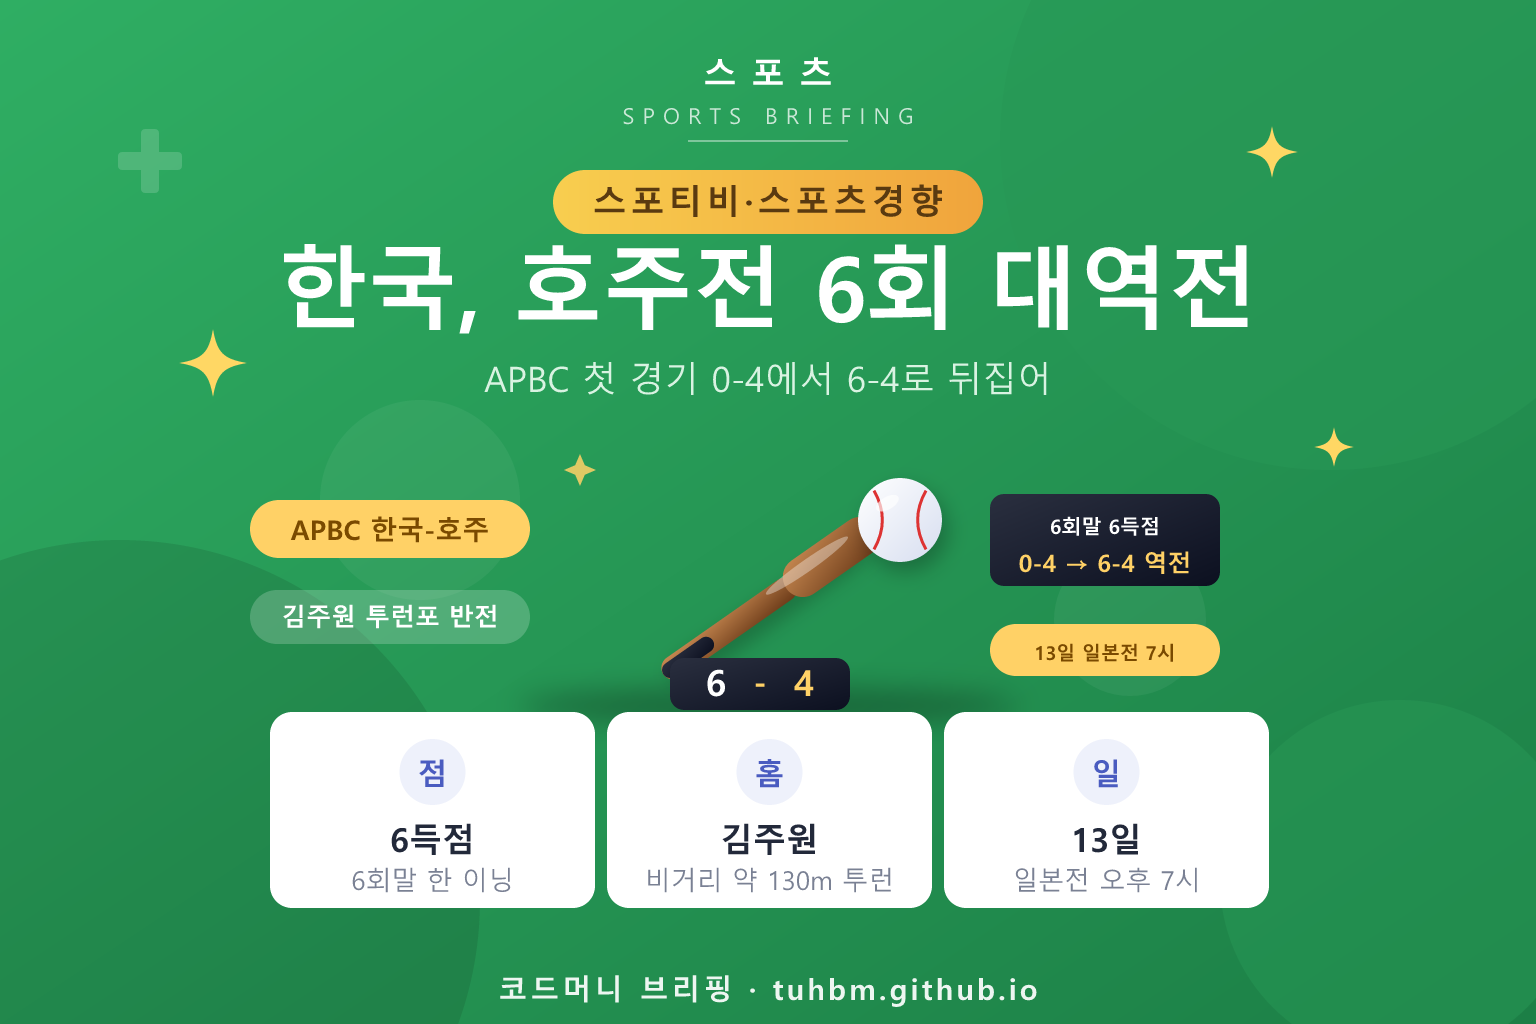
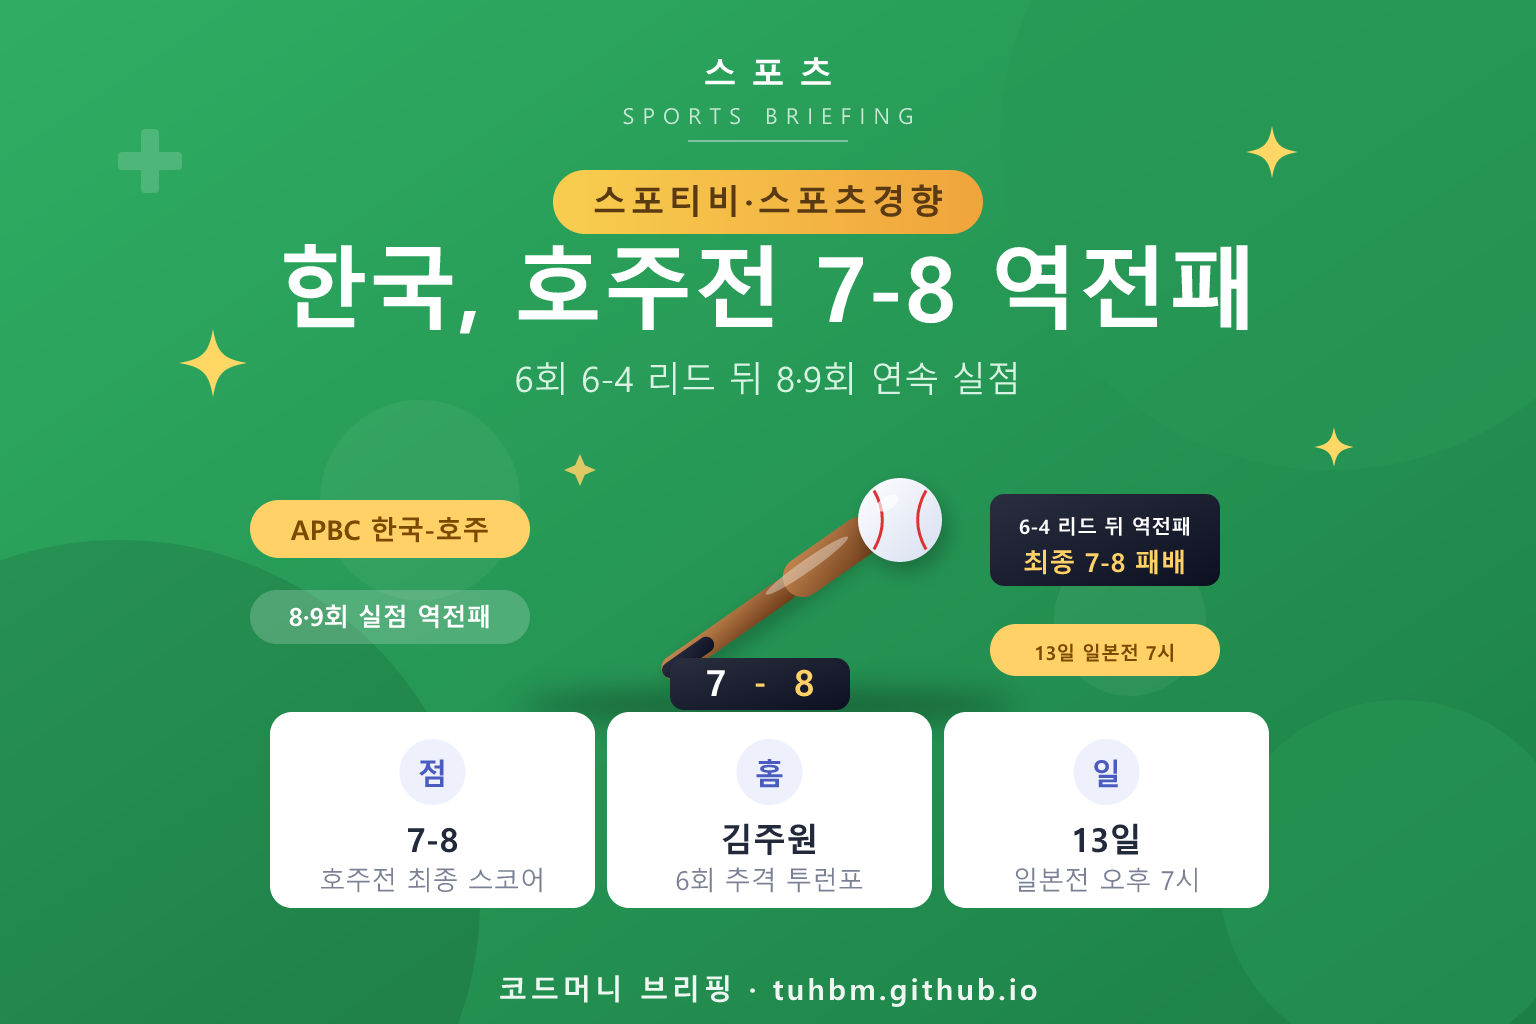
APBC 호주전 글 정정: 최종 7-8 역전패 반영(제목·본문·이미지)

diff --git a/source/_posts/apbcKoreaAustraliaComeback.md b/source/_posts/apbcKoreaAustraliaComeback.md
@@ -1,8 +1,8 @@
 ---
 
-title: APBC 한국 호주전 6회말 6득점 대역전 — 0-4에서 김주원 투런·김휘집 싹쓸이, 13일 일본전 일정
+title: APBC 한국 호주전 7-8 역전패 — 6회말 6득점으로 뒤집고도 8·9회 실점, 13일 일본전 일정
 date: 2026-11-12 08:47:00
-description: 야구대표팀이 12일 도쿄돔에서 열린 2026 APBC 첫 경기에서 호주에 0-4로 끌려가다 6회말 6득점으로 6-4 역전했습니다. 김주원 투런 홈런, 김휘집 3타점 2루타, 신인 김민준 선발 부진, 13일 일본전 일정을 스포티비·스포츠경향 보도로 정리했습니다.
+description: 야구대표팀이 12일 도쿄돔 APBC 첫 경기에서 호주에 7-8로 졌습니다. 0-4로 뒤지다 6회말 6득점으로 6-4까지 뒤집었지만 8회와 9회 실점했습니다. 김주원 투런, 김휘집 3타점 2루타, 13일 일본전 일정을 뉴스1·MHN·스포티비 보도로 정리했습니다.
 categories:
 - 브리핑
 - 스포츠
@@ -21,10 +21,11 @@ keywords:
 ![APBC 한국 호주전 역전을 나타낸 이미지](https://tuhbm.github.io/images/normal/apbcKoreaAustraliaComeback.png)
 ## 한눈에 요약
 
-* **무슨 일?** 최원호 감독의 한국 야구대표팀이 12일 일본 도쿄돔에서 열린 2026 아시아프로야구챔피언십(APBC) 첫 경기 호주전에서 0-4로 끌려가다 6회말 6점을 뽑아 6-4로 앞섰습니다.
+* **정정 안내(13일)**: 이 글의 초판은 6회말 6-4 리드까지만 전했으나, 경기 최종 결과는 한국의 7-8 역전패였습니다. 아래 내용을 최종 결과에 맞춰 고쳤습니다.
+* **무슨 일?** 최원호 감독의 한국 야구대표팀이 12일 일본 도쿄돔에서 열린 2026 아시아프로야구챔피언십(APBC) 첫 경기 호주전에서 0-4로 끌려가다 6회말 6점을 뽑아 6-4로 앞섰지만, 8회초와 9회초에 실점해 7-8로 졌습니다.
 * **왜 주목?** 5회까지 단 2안타에 묶이던 타선이 김주원의 투런 홈런을 시작으로 한 이닝에 터졌습니다. 반면 선발 신인 김민준은 2⅓이닝 4실점으로 물러났습니다.
 * **다음 일정**: 13일 일본전(오후 7시), 14일 대만전을 치른 뒤 15일 순위 결정전이 열립니다.
-* **확인 필요**: 이 글은 6회말까지 상황을 전한 보도를 바탕으로 합니다. 경기 최종 결과는 공식 기록을 확인하세요.
+* **남은 변수**: 한국은 결승 진출을 노리려면 일본전과 대만전을 모두 이겨 2승 1패를 해야 합니다.
 
 <!-- more -->
 
@@ -33,6 +34,10 @@ keywords:
 스포티비뉴스 보도에 따르면 한국은 김주원(유격수)-김도영(3루수)-안현민(지명타자)-한동희(1루수)-문현빈(우익수)-김휘집(2루수)-박재현(중견수)-조형우(포수)-김민석(좌익수)으로 타선을 짰고 선발투수는 김민준이었습니다. 김민준은 1회초 볼넷 2개를 내준 뒤 2사 1·2루에서 호주 5번 타자 블레이크 카빌에게 선제 3점 홈런을 맞았습니다. 2회를 잘 넘겼지만 3회 2루타와 볼넷으로 무사 1·2루에 몰렸고, 아웃카운트 하나를 잡은 뒤 마운드를 내려갔습니다. 구원 등판한 조동욱이 승계 주자 1명을 들여보내 김민준의 실점은 4점이 됐습니다. 최종 기록은 2⅓이닝 2피안타(1피홈런) 3볼넷 2탈삼진 4실점입니다.
 
 타선도 5회까지 2안타에 그쳤습니다. 분위기가 바뀐 것은 6회말입니다.
+
+## 8·9회 역전패 과정
+
+MHN 보도에 따르면 6-4로 앞선 한국은 8회초 박정민(롯데)이 클레이턴 캠벨에게 동점 2점 홈런을 맞았습니다. 앞서 나온 김휘집의 수비 실책이 빌미가 됐다고 합니다. 9회초에는 최준용(롯데)이 크리스 버크에게 역전 적시 2루타를 맞았고 맥스 더링턴에게 추가 적시타까지 허용해 6-8이 됐습니다. 한국은 9회말 1사 2·3루에서 김도영의 희생플라이로 한 점을 따라붙었지만, 안현민이 2루수 뜬공으로 물러나 7-8로 끝났습니다. 김도영은 이날 4타수 무안타 2삼진에 희생플라이 1타점이었습니다.
 
 ## 6회말 6득점 순서
 
@@ -55,13 +60,13 @@ keywords:
 
 ## 호주전이 방심할 수 없던 이유
 
-뉴스1은 2023년 대회에서 한국이 호주를 3-2로 이겼지만 연장 승부치기까지 간 진땀승이었다고 짚었습니다. 당시 한국은 8회초까지 호주 마운드를 공략하지 못하다 1-2로 끌려가던 8회말 김주원의 적시타로 동점을 만들었고, 연장 10회말 노시환의 끝내기 안타로 이겼습니다. 이번에도 초반 열세를 뒤집는 경기가 된 셈입니다. 또 이번 대표팀은 확실한 에이스가 없는 것이 약점으로 꼽히고, 김도영·안현민·한동희로 이어지는 중심 타선이 강점이라는 평가가 나왔습니다. 김도영은 우승을 바라보고 뛰겠다고, 주장 한동희는 무조건 다 이겨야 한다며 전승 우승을 목표로 하겠다고 밝혔습니다.
+뉴스1은 2023년 대회에서 한국이 호주를 3-2로 이겼지만 연장 승부치기까지 간 진땀승이었다고 짚었습니다. 당시 한국은 8회초까지 호주 마운드를 공략하지 못하다 1-2로 끌려가던 8회말 김주원의 적시타로 동점을 만들었고, 연장 10회말 노시환의 끝내기 안타로 이겼습니다. 이번에는 초반 열세를 뒤집고도 후반에 다시 역전을 허용했습니다. 또 이번 대표팀은 확실한 에이스가 없는 것이 약점으로 꼽히고, 김도영·안현민·한동희로 이어지는 중심 타선이 강점이라는 평가가 나왔습니다. 김도영은 우승을 바라보고 뛰겠다고, 주장 한동희는 무조건 다 이겨야 한다며 전승 우승을 목표로 하겠다고 밝혔습니다.
 
 ## 나에게 미치는 영향
 
-* **야구 팬**: 13일 오후 7시 일본전이 조별리그 고비입니다. 중계 채널은 편성표에서 확인하세요.
+* **야구 팬**: 13일 오후 7시 일본전이 조별리그 고비입니다. 호주전에서 패해 일본·대만전을 모두 이겨야 결승 진출 가능성이 커집니다.
 * **KBO 팬**: 시즌이 끝난 뒤에도 각 구단 젊은 선수들의 국제대회 경험을 볼 수 있는 기회입니다.
-* **일반 독자**: 최종 결과와 순위는 공식 기록으로 확인해야 하며, 이 글은 6회말까지의 보도를 요약한 것입니다.
+* **일반 독자**: 일본전 선발은 롯데 좌완 김진욱으로 예고됐고, 한국은 프로 선수가 나선 국제대회 한일전에서 11연패 중이라고 뉴스1은 전했습니다.
 
 ## 용어 풀이
 
@@ -73,7 +78,7 @@ keywords:
 ## 자주 묻는 질문
 
 **Q. 한국은 호주전을 이겼나요?**
-A. 인용한 보도는 6회말 6-4 리드까지만 전합니다. 최종 결과는 공식 기록을 확인하세요.
+A. 아닙니다. 6-4로 앞섰지만 8·9회에 실점해 7-8로 졌습니다.
 
 **Q. 다음 경기는 언제인가요?**
 A. 13일 일본전, 14일 대만전, 15일 순위 결정전 순입니다.
@@ -90,5 +95,7 @@ A. 올해 신인으로 이번에 처음 태극마크를 달았고, 보도에 따
 ## 참고 자료
 
 * [스포티비뉴스 - 한국 부활 김지찬 2루타 김주원 투런포 김휘집 만루 싹쓸이 6회 6득점 빅이닝](https://v.daum.net/v/20261112142522769) (2026-11-12)
+* [MHN - 한국야구 동네북 전락 호주 사회인 팀에도 역전패](https://v.daum.net/v/20261113001124680) (2026-11-13)
+* [뉴스1 - 호주에 덜미 韓 야구 결승행 가시밭길 오늘 한일전 부담 커졌다](https://v.daum.net/v/20261113063124971) (2026-11-13)
 * [스포츠경향 - 대표팀 첫 홈런의 주인공은 김주원 6회말 0-4에서 6-4 대역전 발판](https://v.daum.net/v/20261112143956820) (2026-11-12)
 * [뉴스1 - 우승 목표 김도영 앞세운 야구대표팀 내일 호주와 APBC 첫 경기](https://v.daum.net/v/20261111132508786) (2026-11-11)
